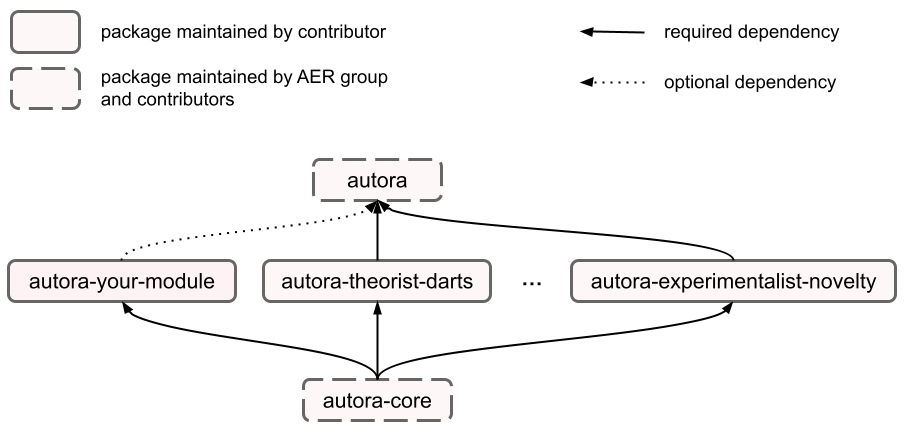
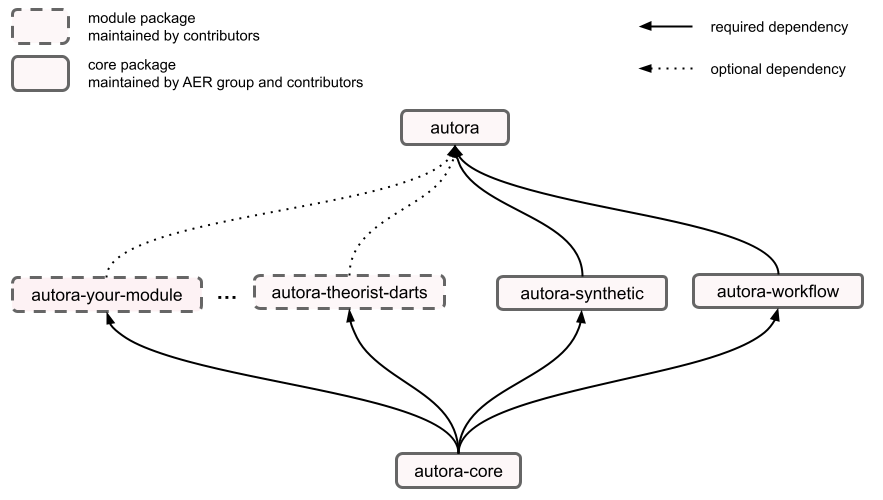
updated main contrib doc

diff --git a/docs/contribute/index.md b/docs/contribute/index.md
@@ -1,17 +1,72 @@
 # Contributor Guide
 
+The AutoRA project is a collection of packages which together form a framework for closed-loop empirical research.
+We invite contributions to all parts of the project, including the [core package](core.md), the 
+[parent package](core.md), and  the [modules](module.md). Below is a brief overview of the
+project structure, along with pointers to more detailed contribution guides for each part of the project.
+
+## Project Structure
+
 Contributions to AutoRA are organized into one "parent" and many "child" packages. 
+Child packages are generally maintained by individual contributors. The parent package, along with some other 
+*core* packages, is maintained by [Autonomous Empirical Research Group](https://musslick.github.io/AER_website/Team.html), 
+as well as external contributors.
 
-[`autora`](https://github.com/autoresearch/autora) is the "parent" package which end users are expected to install.
-It includes vetted "child" packages as optional dependencies which users can choose to install.
+![image](../img/package_overview.png)
 
-Each experimentalist, experiment runner or theorist is a "child" package. 
-For details on how to submit child packages for inclusion in `autora`, see
-[the module contributor guide here](./module.md).
+[`autora`](https://github.com/autoresearch/autora) is the "parent" package which end users are expected to install. The
+parent depends on core packages, such as [`autora-core`](https://github.com/autoresearch/autora-core), 
+[`autora-workflow`](https://github.com/autoresearch/autora-workflow), and
+[`autora-synthetic`](https://github.com/autoresearch/autora-synthetic). It also includes vetted modules (child packages) as optional dependencies which users can choose 
+to install. 
 
-[`autora-core`](https://github.com/autoresearch/autora-core), is the "core" package which includes fundamental utilities
+You may contribute to any of the core packages or develop your own module as a stand-alone package (see below).    
+
+
+### Module Contributions
+
+Each theorist, experimentalist, or experiment runner is a child package. Child packages owned and maintained by you, the contributor, which provides several advantages:
+- *Easy setup*: We provide simple [templates](module.md) for child packages, which you can use to get started quickly
+- *Independence*: You can develop and maintain your package independently of other child packages (and avoid dependency conflicts)
+- *Ownership*: You can publish your package on PyPI, use it in other projects, and get credit for its use. 
+
+For details on how to submit child packages 
+for inclusion in `autora`, see
+[the module contributor guide here](./module.md). 
+
+Feel free to post questions and feedback regarding core contributions on the 
+[AutoRA forum](https://github.com/orgs/AutoResearch/discussions/categories/module-contributions).
+
+### Core Contributions
+
+The following packages are considered "core" packages, and are actively maintained by the
+[Autonomous Empirical Research Group](https://musslick.github.io/AER_website/Team.html):
+
+- **autora** [`https://github.com/autoresearch/autora`](https://github.com/autoresearch/autora): The parent package use the one that users install, e.g., via `pip install autora`. The package determines which modules (child packages) are included and maintains the general documentation.
+
+
+- **autora-core** [`https://github.com/autoresearch/autora-core`](https://github.com/autoresearch/autora-core) This package  includes fundamental utilities
 and building blocks for all the other packages. This is always installed when a user installs `autora` and can be 
-a dependency of other "child" packages. For more details, see [the core contributor guide here](./core.md). 
+a dependency of other "child" packages.   
 
-It's possible to set up your python environment in many different ways. 
+
+- **autora-workflow** [`https://github.com/autoresearch/autora-workflow`](https://github.com/autoresearch/autora-workflow): The workflow packages includes basic utilities for managing the workflow of closed-loop research processes, e.g., coordinating workflows between the theorists, experimentalists, and experiment runners. This package is expected to be merged into autora-core.
+
+
+- **autora-synthetic** [`https://github.com/autoresearch/autora-synthetic`](https://github.com/autoresearch/autora-synthetic): This package a number of ground-truth models from different scientific disciplines that can be used for benchmarking automated scientific discovery. If you seek to contribute a scientific model, please see the [core contributor guide](core.md) for details.   
+
+
+We welcome contributions to
+these packages in the form of pull requests, bug reports, and feature requests. For more details, see the
+[core contributor guide](core.md). 
+
+For core contributions, it is possible to set up your python environment in many different ways. 
 One setup which works for us is described in [the setup guide](./setup.md). 
+
+We welcome questions and feedback regarding core contributions on the 
+[AutoRA forum](https://github.com/orgs/AutoResearch/discussions/categories/module-contributions).
+
+!!! hint
+    If you would like to become actively involved in the development and maintenance of core AutoRA packages, 
+    we welcome you to join the [Autonomous Empirical Research Group](https://musslick.github.io/AER_website/Team.html).
+
